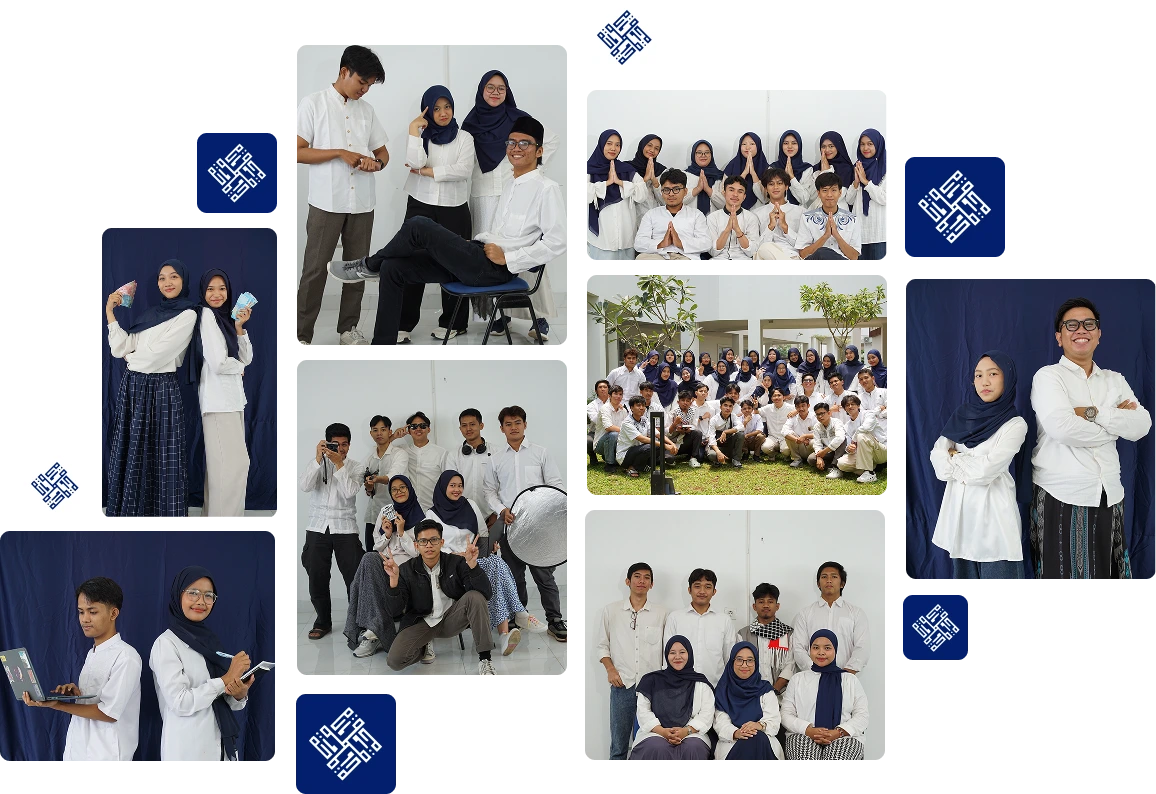
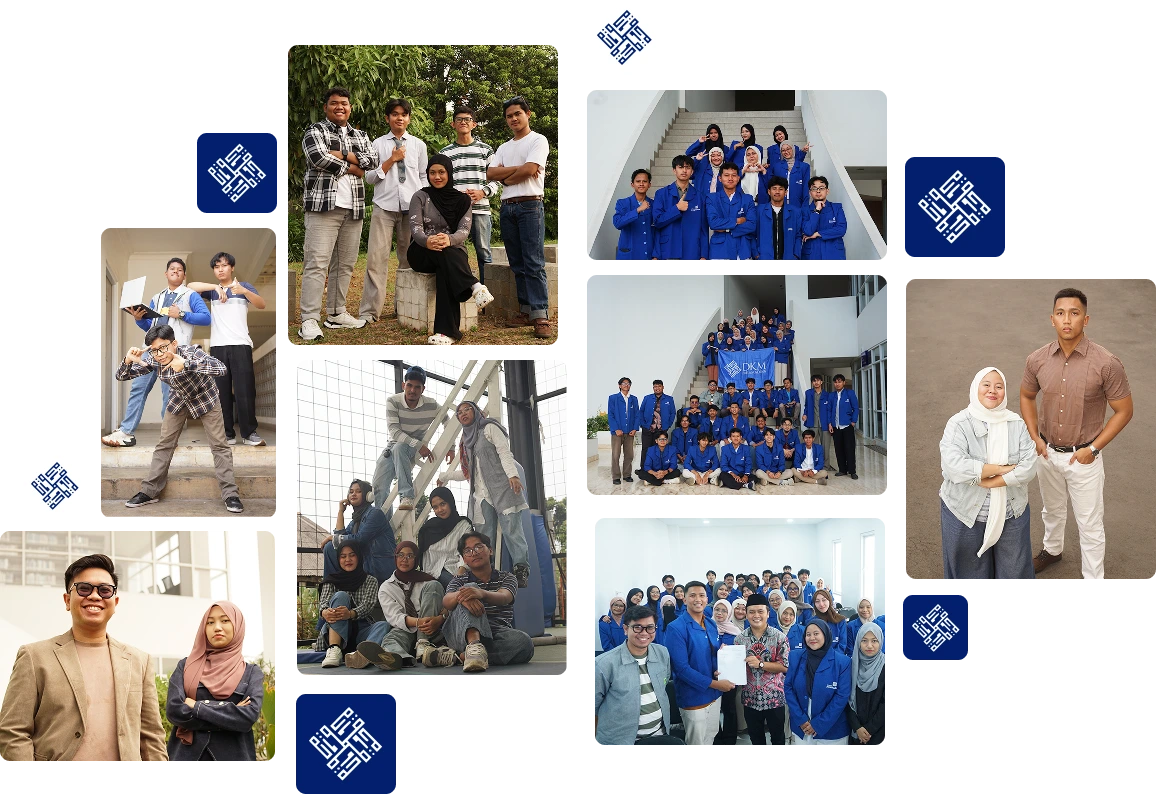
feat: change photo kabinet and change description and profile ketum waketum

diff --git a/app/tentang-kami/page.js b/app/tentang-kami/page.js
@@ -78,7 +78,7 @@ export default function tentangKami() {
           viewport={{ once: true }}
           className="lg:text-5xl text-3xl font-bold mb-4 bg-gradient-to-r from-[#DAE9FF] via-[#0066FF] to-[#DAE9FF] bg-clip-text text-transparent"
         >
-          Naeema DKM Paramadina
+          Jejak DKM Paramadina
         </motion.h2>
 
         <motion.p
@@ -88,12 +88,13 @@ export default function tentangKami() {
           viewport={{ once: true }}
           className="max-w-5xl mx-auto text-gray-600"
         >
-          Naeema memiliki konotasi positif yang sering dikaitkan dengan berkah,
-          kebaikan, kenyamanan atau kesenangan. Kabinet "Naeema" diharapkan
-          menjadi organisasi yang membawa rahmat dan manfaat, tidak hanya bagi
-          anggotanya tetapi juga bagi seluruh umat dan lingkungan sekitar.
-          Keberkahan bukan hanya tentang hasil, tetapi juga tentang proses yang
-          dilakukan dengan niat yang tulus dan cara yang benar.
+          Setiap kepengurusan meninggalkan jejak dalam perjalanan DKM
+          Paramadina. Dari satu periode ke periode berikutnya, setiap langkah
+          menjadi bagian dari proses untuk terus bertumbuh, berkolaborasi, dan
+          memberikan manfaat. Jejak ini hadir melalui dedikasi para pengurus,
+          mulai dari Ketua dan Wakil Ketua Umum hingga seluruh divisi yang
+          bersama-sama menghidupkan berbagai program dan gerakan keislaman di
+          lingkungan kampus.
         </motion.p>
         <div className="my-5 mx-auto bg-[#0066FF] w-40 h-2 rounded-full"></div>
       </section>
@@ -105,7 +106,7 @@ export default function tentangKami() {
           whileInView={{ x: 0, opacity: 1 }}
           transition={{ duration: 0.8 }}
           viewport={{ once: true }}
-          src="/syalki.png"
+          src="/azmi.webp"
           loading="lazy"
           width="500"
           height="500"
@@ -122,19 +123,21 @@ export default function tentangKami() {
             Ketua Umum DKM Paramadina
           </p>
           <h2 className="mb-4 text-4xl font-bold text-[#0066FF] lg:text-5xl">
-            Muhammad Syalky
+            Azmi Fairuz Habibi
           </h2>
           <p className="mt-2 mb-4 text-gray-700">
-            Syalky merupakan mahasiswa aktif Program Studi Ilmu Komunikasi
-            angkatan 2023 yang berpengalaman di berbagai organisasi kampus
-            maupun luar kampus. Sebagai Ketua Umum DKM Paramadina, ia bertugas
-            memimpin seluruh kegiatan organisasi, mengarahkan program strategis,
-            serta memastikan DKM hadir sebagai rumah dakwah yang ramah, terbuka
-            dan berdampak luas di lingkungan kampus.
+            Azmi Fairuz Habibi merupakan mahasiswa aktif Program Studi Ilmu
+            Komunikasi Universitas Paramadina yang memiliki ketertarikan pada
+            bidang kepemimpinan, komunikasi, dan pengembangan organisasi.
+            Sebagai Ketua Umum DKM Paramadina, ia bertugas memimpin dan
+            mengarahkan seluruh kegiatan organisasi, mengembangkan program
+            strategis, serta memastikan DKM dapat menjadi wadah dakwah yang
+            inklusif, ramah, dan terbuka bagi seluruh civitas akademika, baik
+            mahasiswa maupun nonmahasiswa.
           </p>
           <div className="flex gap-4 text-gray-600">
             <a
-              href="https://www.instagram.com/muhammadsyalki"
+              href="https://www.instagram.com/mi_fairuzh/"
               target="_blank"
               className="text-3xl"
             >
@@ -152,9 +155,9 @@ export default function tentangKami() {
               </svg>
             </a>
             <a
-              href="https://www.tiktok.com/@muhammadsyalki"
               target="_blank"
               className="text-3xl"
+              style={{ opacity: "0.3" }}
             >
               <svg
                 xmlns="http://www.w3.org/2000/svg"
@@ -170,9 +173,9 @@ export default function tentangKami() {
               </svg>
             </a>
             <a
-              href="https://www.linkedin.com/in/muhammad-syalky-3aabb3277/"
               target="_blank"
               className="text-3xl"
+              style={{ opacity: "0.3" }}
             >
               <svg
                 xmlns="http://www.w3.org/2000/svg"
@@ -203,19 +206,20 @@ export default function tentangKami() {
             Wakil Ketua Umum DKM Paramadina
           </p>
           <h2 className="mb-4 text-4xl font-bold text-[#0066FF] lg:text-5xl">
-            Nur'izzah Syakaromansyah
+            Tsaqilah Azri
           </h2>
           <p className="mt-2 mb-4 text-gray-700">
-            Syaka merupakan mahasiswa aktif di Program Studi Psikologi angkatan
-            2023 yang berpengalaman di berbagai organisasi kampus maupun luar
-            kampus. Sebagai Wakil Ketua Umum, Syaka berperan dalam mengelola
-            operasional organisasi, mengkoordinasikan antar divisi, serta
-            menjaga keharmonisan kerja tim agar seluruh program berjalan efektif
-            dan selaras dengan nilai-nilai Islam.
+            Tsaqilah Azri adalah Mahasiswa Program Studi Hubungan Internasional
+            angkatan 2024. Aktif terlibat dalam berbagai kegiatan organisasi di
+            lingkup kampus maupun di luar kampus. Saat Ini Menjabat sebagai
+            Wakil Ketua Umum DKM Periode 2026/2027 dengan tugas membantu Ketua
+            Umum dalam mengarahkan visi dan program kerja organisasi,
+            menyelaraskan koordinasi antar bidang, dalam menjaga ruang diskusi
+            antar pengurus dalam pengambilan keputusan strategis.
           </p>
           <div className="flex justify-start lg:justify-end gap-4 text-gray-600">
             <a
-              href="https://www.instagram.com/syakaromansyh"
+              href="https://www.instagram.com/tsazri23/"
               target="_blank"
               className="text-3xl"
             >
@@ -248,8 +252,8 @@ export default function tentangKami() {
             </a>
             <a
               target="_blank"
-              href="https://www.linkedin.com/in/nur-izzah-syakaromansyah-145392289/"
               className="text-3xl"
+              style={{ opacity: "0.3" }}
             >
               <svg
                 xmlns="http://www.w3.org/2000/svg"
@@ -267,7 +271,7 @@ export default function tentangKami() {
           </div>
         </motion.div>
         <img
-          src="/syaka.png"
+          src="/qila.webp"
           loading="lazy"
           width="500"
           height="500"
